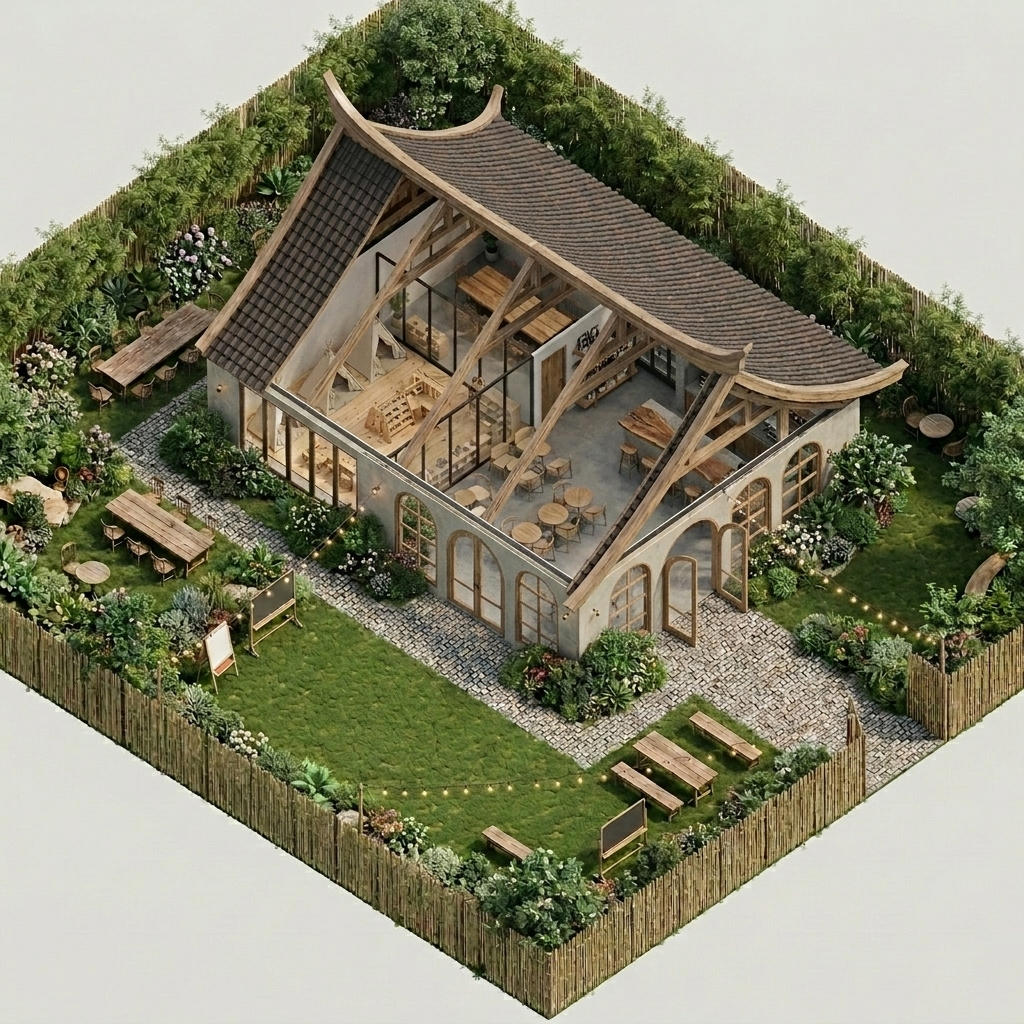
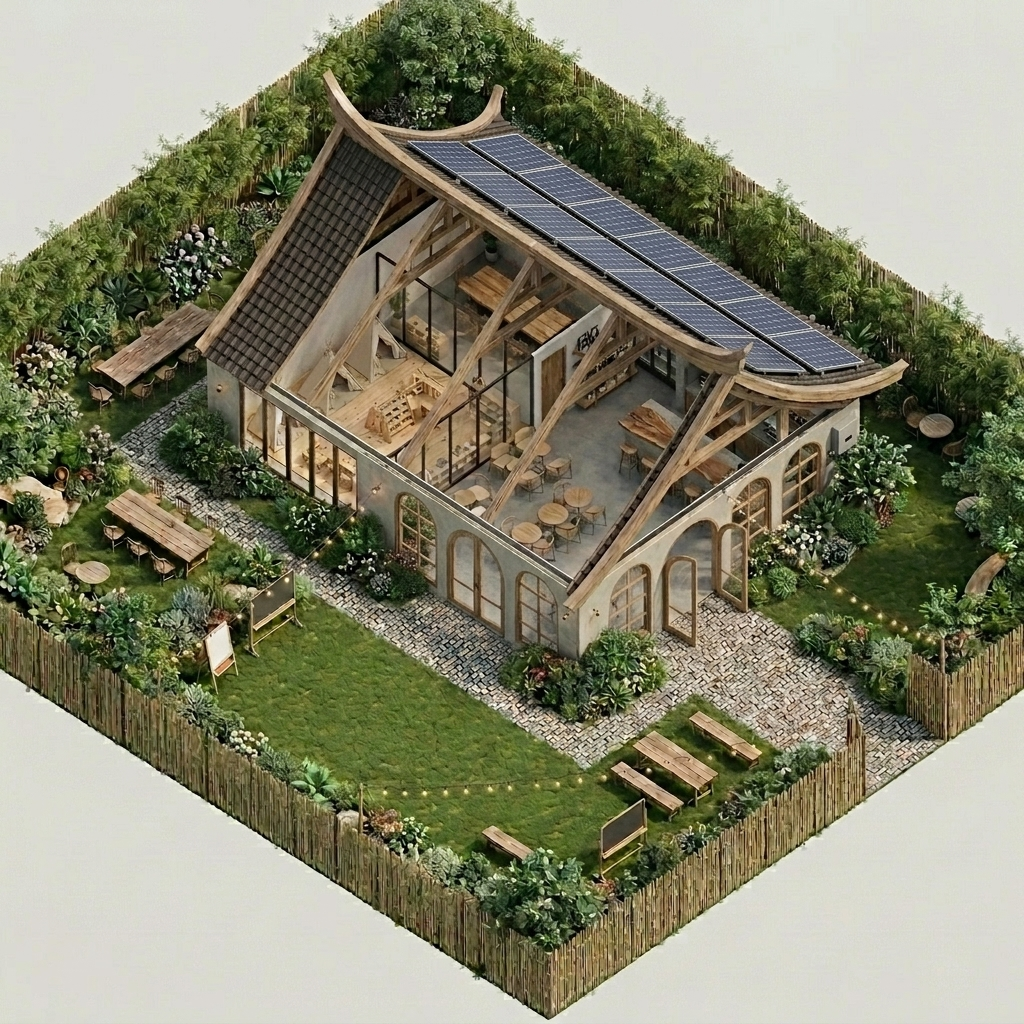
v7.3: Thêm ảnh nội thất cửa vòm + solar panels trên mái
- Thêm render nội thất: cửa sổ vòm tường phải, quầy bar pha chế, vách kính kid zone
- Master plan cập nhật: solar panels 5kWp trên mái dốc phía sau
- Gallery HTML: thêm card nội thất cửa vòm

diff --git a/index.html b/index.html
@@ -293,6 +293,17 @@
         <p>Nhìn từ trên xuống: Nhà chính 10×20m với mái cong đầu hồi nổi bật ở trung tâm, sân trước 7.5m (cỏ xanh, sandbox, biển LITTLE WORLD), hành lang trúc 2 bên, vườn rau + solar phía sau, 2 mặt tiền + kênh nước phía trước.</p>
       </div>
     </div>
+
+    <div class="gallery-card">
+      <div class="gallery-img-wrap">
+        <img src="images/v7_interior_arched_windows.png" alt="Nội thất nhìn rõ cửa vòm tường phải, quầy bar pha chế, vách kính kid zone">
+      </div>
+      <div class="gallery-info">
+        <div class="gallery-tag" style="color:var(--accent-rose)">v7 Nội Thất — Cửa Vòm</div>
+        <h3>Cửa Vòm Tường Phải & Quầy Pha Chế</h3>
+        <p>Tường phải trổ 3 cửa sổ vòm khung gỗ mít lấy sáng tự nhiên + 1 cửa đi thông ra vườn trúc. Quầy bar gỗ mít live-edge + tủ kính bánh + barista. Vách kính đen nhìn xuyên sang khu Montessori. Trần kèo gỗ mái cong 5m + đèn mây tre pendant.</p>
+      </div>
+    </div>
   </div>
 
   <div class="design-audit">